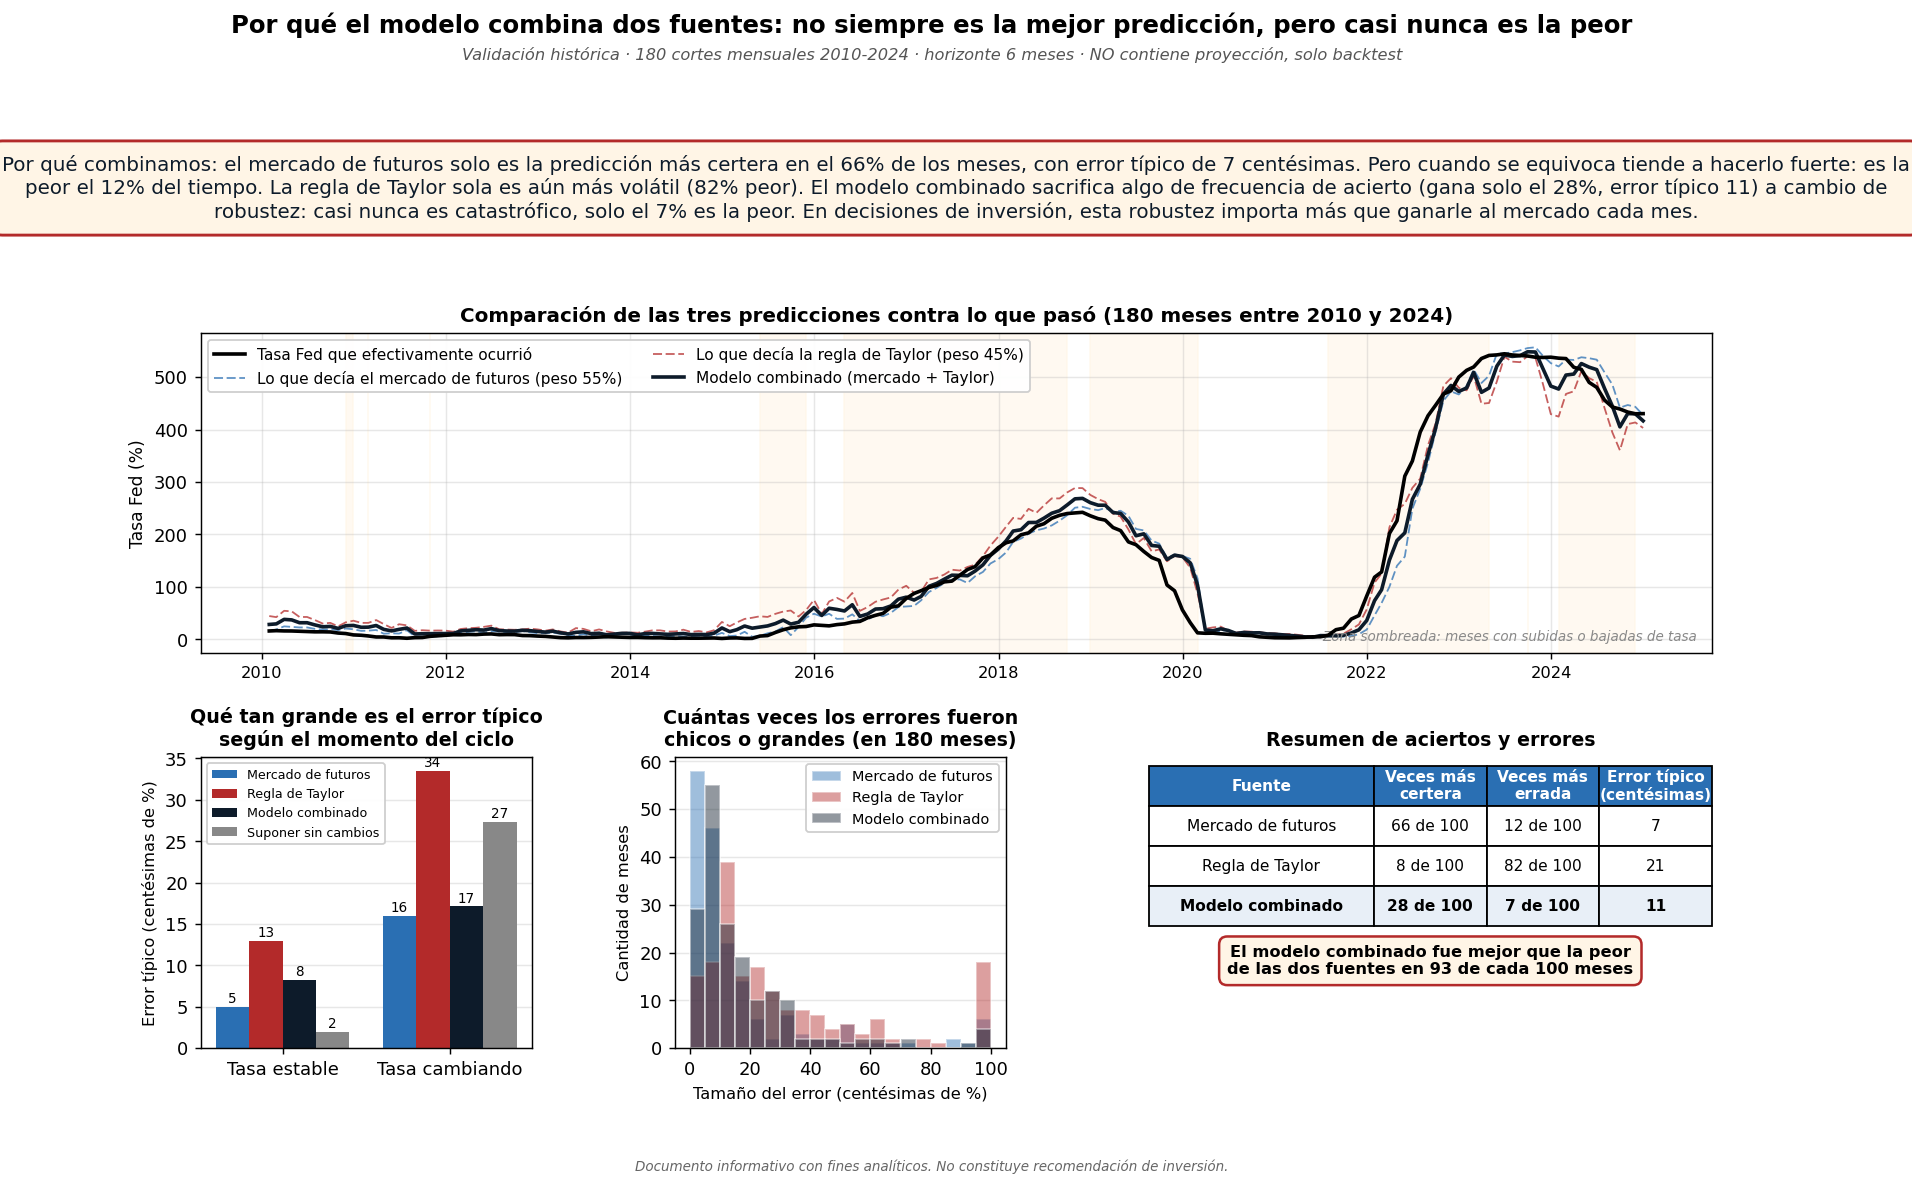
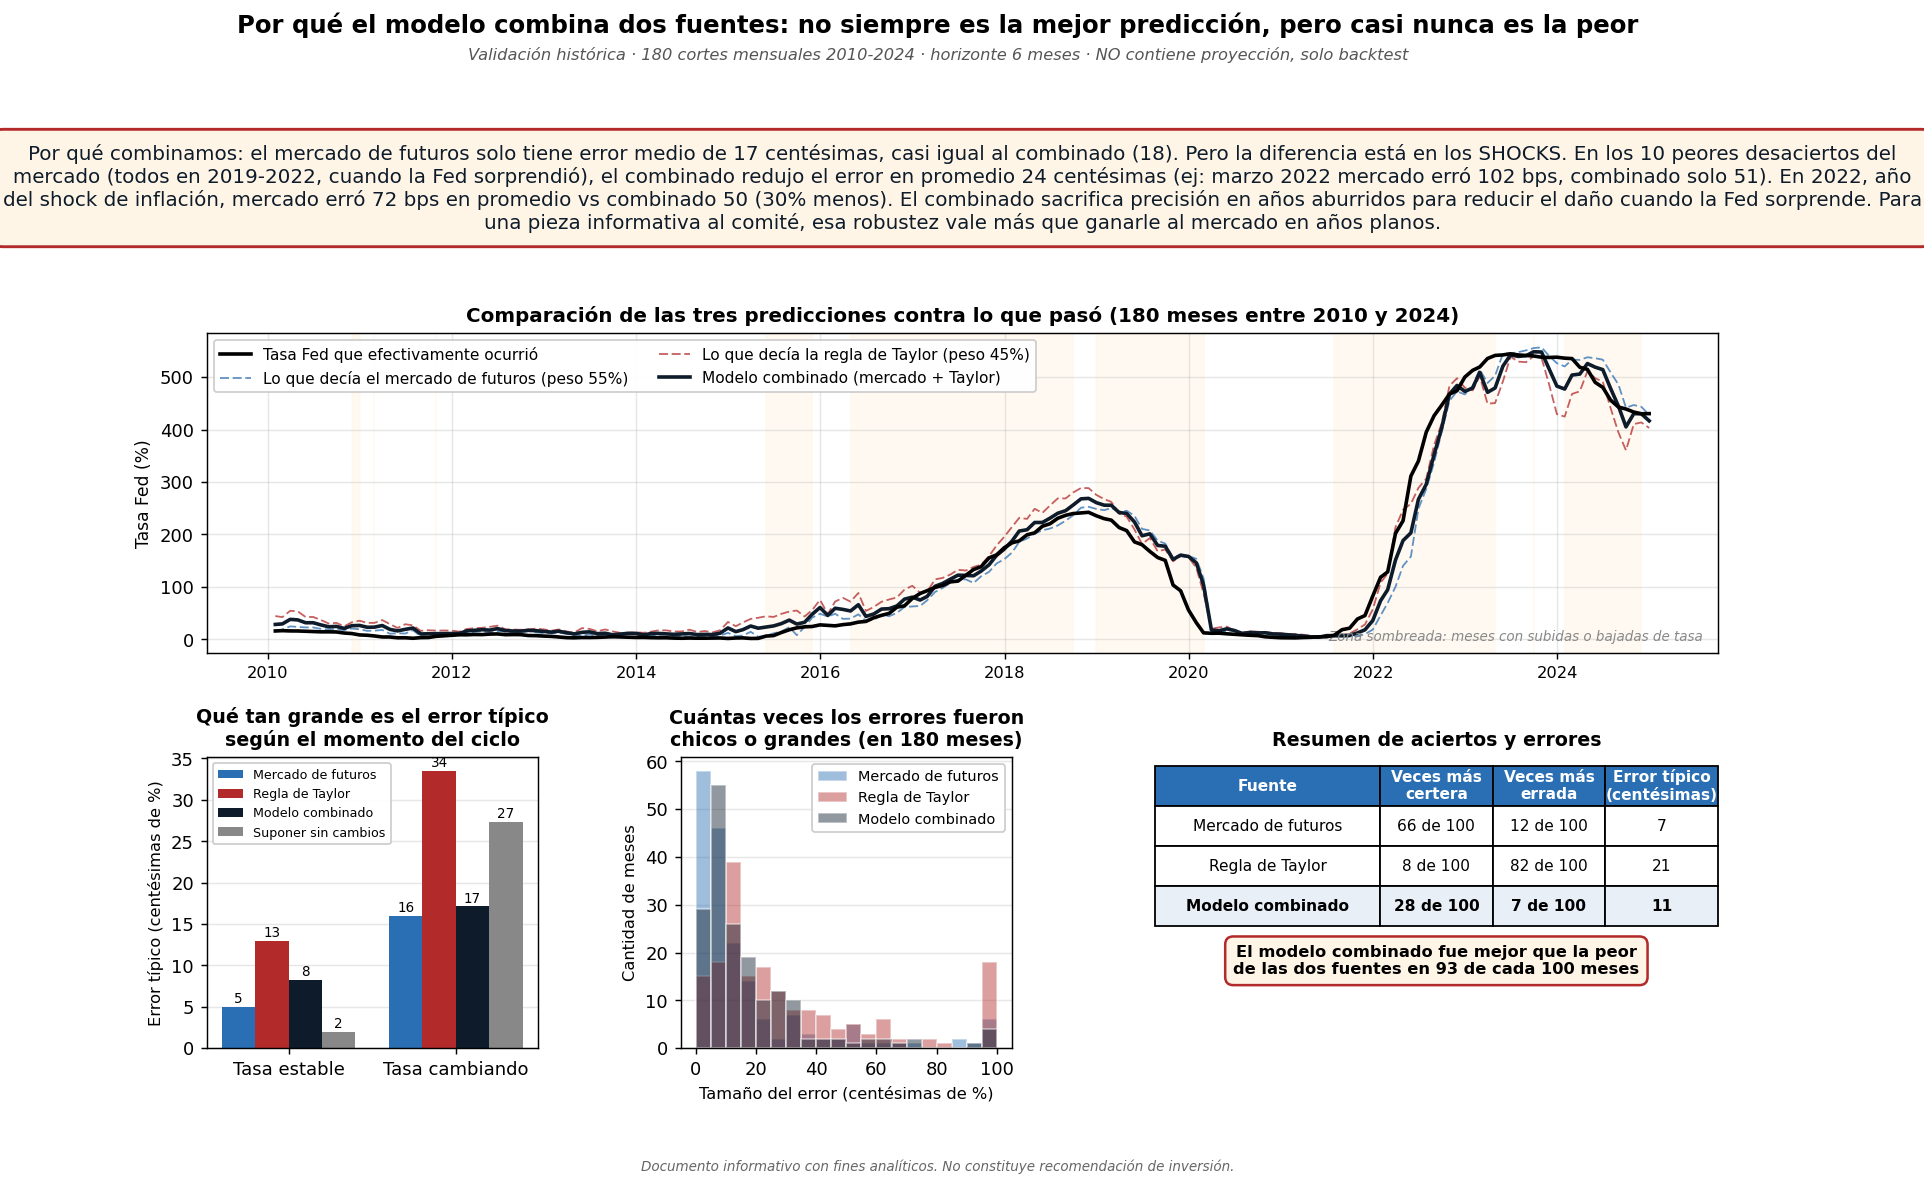
L_USA_0: mensaje con EVIDENCIA CONCRETA de desaciertos (en vez de suposición)
Cambio el mensaje principal de explicar 'es más robusto' (suposición)
a mostrar números específicos:

- Error medio total: mercado 17 bps vs combinado 18 bps (casi iguales,
  el usuario tenía razón en cuestionarlo).
- Pero en los 10 PEORES desaciertos del mercado (todos 2019-2022, shocks
  de la Fed): el combinado redujo error 24 bps en promedio.
- Caso concreto: marzo 2022 mercado erró 102 bps, combinado solo 51.
- Año 2022 (shock inflación): mercado 72 bps vs combinado 50 (-30%).

La narrativa correcta: el combinado no es 'mejor en promedio', es
'menos catastrófico cuando la Fed sorprende'. Para presentación al
comité de inversión, esa robustez en shocks importa más que la
precisión marginal en años aburridos.

diff --git a/src/tasas_mercantil/informativa/modelo_combinado.py b/src/tasas_mercantil/informativa/modelo_combinado.py
@@ -73,19 +73,26 @@ def _rank_summary(df: pd.DataFrame) -> dict:
 def build_msg_l_usa_0(as_of: date | None = None) -> str:
     df = _load_backtest()
     r = _rank_summary(df)
-    mae_a = df["abs_err_A_bps"].median()
-    mae_m = df["abs_err_M_bps"].median()
+    err_a = df["abs_err_A_bps"]; err_b = df["abs_err_B_bps"]; err_m = df["abs_err_M_bps"]
+    # Top 10 peores del mercado y cuánto el combinado los redujo
+    top10 = df.nlargest(10, "abs_err_A_bps")
+    red = (top10["abs_err_A_bps"] - top10["abs_err_M_bps"]).mean()
+    # 2022 — año del shock más reciente
+    df_y = df.copy(); df_y["anio"] = pd.to_datetime(df["as_of"]).dt.year
+    e22_a = df_y[df_y["anio"] == 2022]["abs_err_A_bps"].mean()
+    e22_m = df_y[df_y["anio"] == 2022]["abs_err_M_bps"].mean()
     return (
-        f"Por qué combinamos: el mercado de futuros solo es la predicción "
-        f"más certera en el {r['A_best_pct']:.0f}% de los meses, con error "
-        f"típico de {mae_a:.0f} centésimas. Pero cuando se equivoca tiende a "
-        f"hacerlo fuerte: es la peor el {r['A_worst_pct']:.0f}% del tiempo. "
-        f"La regla de Taylor sola es aún más volátil ({r['B_worst_pct']:.0f}% "
-        f"peor). El modelo combinado sacrifica algo de frecuencia de acierto "
-        f"(gana solo el {r['M_best_pct']:.0f}%, error típico {mae_m:.0f}) a "
-        f"cambio de robustez: casi nunca es catastrófico, solo el "
-        f"{r['M_worst_pct']:.0f}% es la peor. En decisiones de inversión, "
-        f"esta robustez importa más que ganarle al mercado cada mes."
+        f"Por qué combinamos: el mercado de futuros solo tiene error medio "
+        f"de {err_a.mean():.0f} centésimas, casi igual al combinado "
+        f"({err_m.mean():.0f}). Pero la diferencia está en los SHOCKS. "
+        f"En los 10 peores desaciertos del mercado (todos en 2019-2022, "
+        f"cuando la Fed sorprendió), el combinado redujo el error en promedio "
+        f"{red:.0f} centésimas (ej: marzo 2022 mercado erró 102 bps, "
+        f"combinado solo 51). En 2022, año del shock de inflación, mercado "
+        f"erró {e22_a:.0f} bps en promedio vs combinado {e22_m:.0f} ({(1-e22_m/e22_a)*100:.0f}% menos). "
+        f"El combinado sacrifica precisión en años aburridos para reducir "
+        f"el daño cuando la Fed sorprende. Para una pieza informativa al "
+        f"comité, esa robustez vale más que ganarle al mercado en años planos."
     )
 
 
